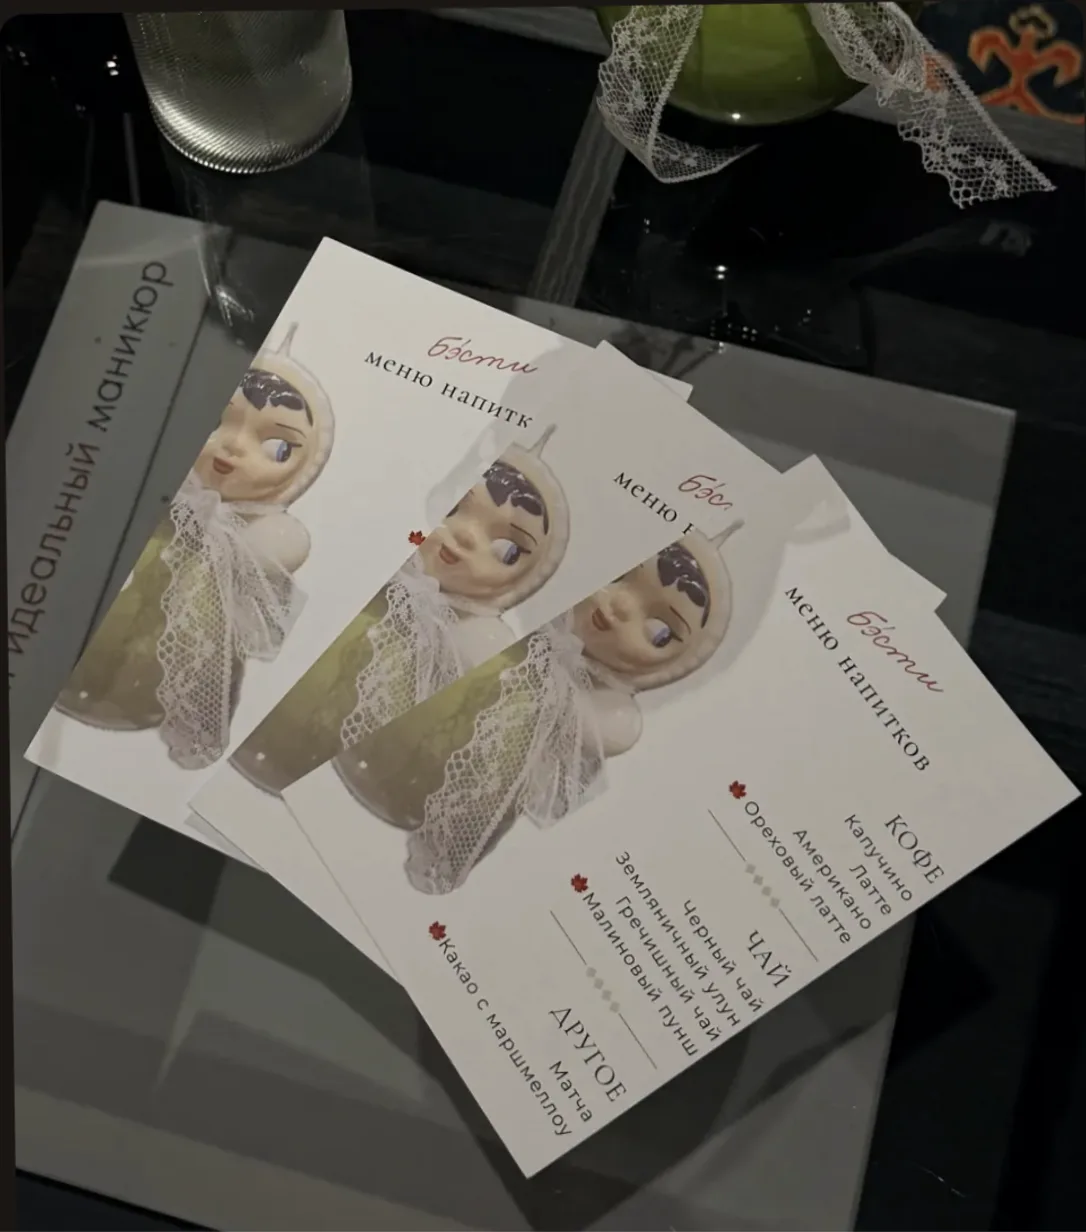
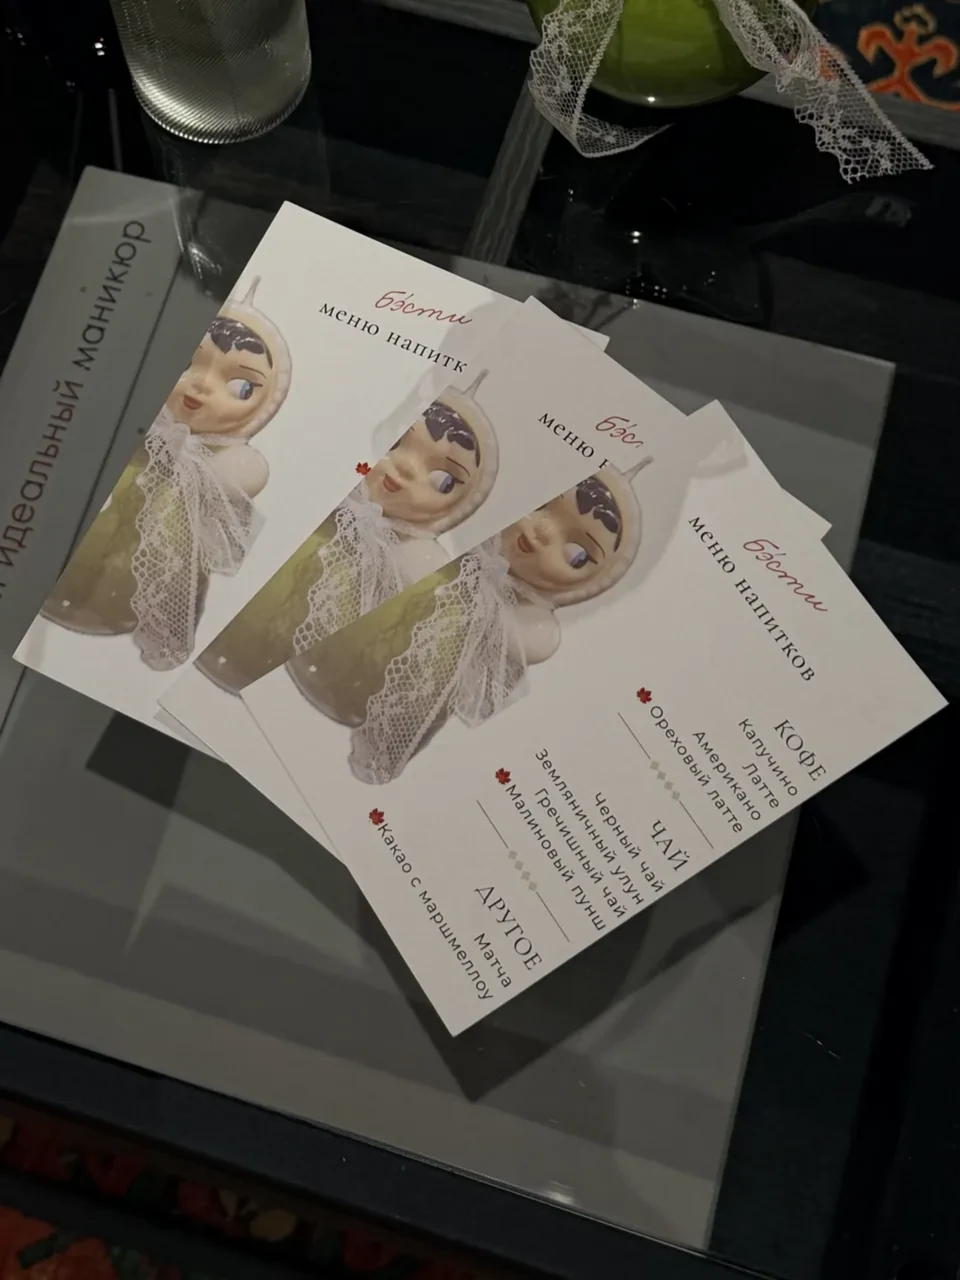
Почему бэсти: фото в кадрировке нового сайта; FAQ — 12 вопросов по карточке Яндекс Карт; подвал как на bestie-nails.ru

diff --git a/index.html b/index.html
@@ -764,7 +764,7 @@ a:focus-visible, button:focus-visible { outline: 2px solid #2B1A17; outline-offs
 .fq__a { display: grid; grid-template-rows: 0fr; transition: grid-template-rows .35s cubic-bezier(.2, .8, .2, 1); }
 .fq__it.is-open .fq__a { grid-template-rows: 1fr; }
 .fq__ai { overflow: hidden; padding-right: 44px; font-size: 15px; line-height: 1.55; color: #2B1A17; }
-.fq__ai p { margin: 0 0 6px; } .fq__ai p:last-child { margin-bottom: 16px; }
+.fq__ai p { margin: 0 0 6px; } .fq__ai p:last-child { margin-bottom: 16px; } .fq__ai a { color: #85231A; text-underline-offset: 3px; }
 .fq-o { position: absolute; z-index: 1; display: block; opacity: 0; will-change: transform, opacity; }
 .fq-o__b { display: block; animation: fqbob 5.5s ease-in-out infinite alternate; }
 @keyframes fqbob { from { transform: translateY(-7px) rotate(-2deg); } to { transform: translateY(7px) rotate(2deg); } }
@@ -773,7 +773,9 @@ a:focus-visible, button:focus-visible { outline: 2px solid #2B1A17; outline-offs
 @media (max-width: 1399px) { .fq__objs { display: none; } }
 @media (max-width: 900px) {
   .fq { height: calc(100svh + 700px); }
-  .fq__stage { height: 100svh; padding: 80px 12px 16px; }
+  .fq__stage { height: 100svh; padding: 84px 12px 16px; place-items: start center; }
+  .fq__in { padding-top: 22px !important; }
+  .fq__q { min-height: 48px; }
   .fq__in { padding: 28px 18px 22px; }
   .fq__h { font-size: 34px; }
   .fq__tabs { margin: 24px 0 14px; }
@@ -928,6 +930,7 @@ a:focus-visible, button:focus-visible { outline: 2px solid #2B1A17; outline-offs
 .pw-img { position: absolute; inset: 0; margin: 0; clip-path: inset(100% 0 0 0); will-change: clip-path; }
 .pw-img[data-i="0"] { clip-path: inset(0 0 0 0); }
 .pw-img img { display: block; width: 100%; height: 100%; object-fit: cover; }
+.pw-img[data-file="kino_v_kresle.jpg"] img { object-position: 12% 50%; } /* кадр с планшетом и наушниками целиком */
 .pw-scan { position: absolute; left: 0; right: 0; top: 0; height: 2px; background: #FFACE4; box-shadow: 0 0 12px #FFACE4; opacity: 0; pointer-events: none; }
 .pw-tag { position: absolute; left: 14px; top: 14px; padding: 4px 8px; background: #FFACE4; color: #85231A; font-family: 'PT Mono', monospace; font-size: 12px; letter-spacing: .06em; text-transform: uppercase; border: 1px solid #2B1A17; }
 .pw-plus { position: absolute; width: 14px; height: 14px; }
@@ -1633,8 +1636,9 @@ a:focus-visible, button:focus-visible { outline: 2px solid #2B1A17; outline-offs
 <div class="fq__in">
 <h2 id="fq-h" class="fq__h">Частые вопросы</h2>
 <p class="fq__sub">Всё, что важно знать до визита</p>
-<div class="fq__tabs" role="tablist" aria-label="Темы вопросов"><button type="button" class="fq__tab" role="tab" id="fq-tab-0" aria-controls="fq-p-0" aria-selected="true" data-t="0">Запись и визит</button><button type="button" class="fq__tab" role="tab" id="fq-tab-1" aria-controls="fq-p-1" aria-selected="false" data-t="1">Студия</button></div>
-<div class="fq__panel" id="fq-p-0" role="tabpanel" aria-labelledby="fq-tab-0"><div class="fq__it"><button type="button" class="fq__q" aria-expanded="false"><span>Сколько длится визит?</span><i aria-hidden="true">+</i></button><div class="fq__a"><div class="fq__ai"><p>Маникюр — 1–1,5 часа; педикюр — 1–2 часа. Время зависит от услуги; дополнительные процедуры выбираются отдельно</p></div></div></div><div class="fq__it"><button type="button" class="fq__q" aria-expanded="false"><span>Записалась не на ту услугу — что делать?</span><i aria-hidden="true">+</i></button><div class="fq__a"><div class="fq__ai"><p>Скажите администратору: поменяем на месте или подскажем заранее</p><p><span class="wait">[ждём: подтверждение]</span></p></div></div></div><div class="fq__it"><button type="button" class="fq__q" aria-expanded="false"><span>Как оплатить?</span><i aria-hidden="true">+</i></button><div class="fq__a"><div class="fq__ai"><p>Картой, наличными, по QR-коду или через СБП</p></div></div></div></div><div class="fq__panel" id="fq-p-1" role="tabpanel" aria-labelledby="fq-tab-1" hidden><div class="fq__it"><button type="button" class="fq__q" aria-expanded="false"><span>Можно прийти с собакой?</span><i aria-hidden="true">+</i></button><div class="fq__a"><div class="fq__ai"><p><span class="wait">[ждём: правила — в карточке «с собаками до 35 см» и «с кошками и собаками»; спросить отдельно]</span></p></div></div></div><div class="fq__it"><button type="button" class="fq__q" aria-expanded="false"><span>Есть ли парковка?</span><i aria-hidden="true">+</i></button><div class="fq__a"><div class="fq__ai"><p><span class="wait">[ждём: где — в карточке «парковка: да»]</span></p></div></div></div></div>
+<!-- вопросы и ответы (22.11): карточка Яндекс Карт (audits/yandex-maps-2026-10-23/card.md — особенности, оплата, акция), прайс и меню сайта, отзывы гостей -->
+<div class="fq__tabs" role="tablist" aria-label="Темы вопросов"><button type="button" class="fq__tab" role="tab" id="fq-tab-0" aria-controls="fq-p-0" aria-selected="true" data-t="0">Запись</button><button type="button" class="fq__tab" role="tab" id="fq-tab-1" aria-controls="fq-p-1" aria-selected="false" data-t="1">Оплата</button><button type="button" class="fq__tab" role="tab" id="fq-tab-2" aria-controls="fq-p-2" aria-selected="false" data-t="2">Студия</button></div>
+<div class="fq__panel" id="fq-p-0" role="tabpanel" aria-labelledby="fq-tab-0"><div class="fq__it"><button type="button" class="fq__q" aria-expanded="false"><span>Как записаться?</span><i aria-hidden="true">+</i></button><div class="fq__a"><div class="fq__ai"><p>Онлайн в YCLIENTS — свободное время и мастера видны сразу. Или по телефону <a href="tel:+79652300425">+7 (965) 230-04-25</a>.</p></div></div></div><div class="fq__it"><button type="button" class="fq__q" aria-expanded="false"><span>Сколько длится визит?</span><i aria-hidden="true">+</i></button><div class="fq__a"><div class="fq__ai"><p>Маникюр — от 1 часа до 1,5 часа, педикюр — от 1 до 2 часов. Точное время каждой услуги указано в прайсе.</p></div></div></div><div class="fq__it"><button type="button" class="fq__q" aria-expanded="false"><span>Делаете мужской маникюр и педикюр?</span><i aria-hidden="true">+</i></button><div class="fq__a"><div class="fq__ai"><p>Да: мужской маникюр, пилочный мужской маникюр и мужской педикюр — в разделе «Услуги и цены».</p></div></div></div><div class="fq__it"><button type="button" class="fq__q" aria-expanded="false"><span>Работаете каждый день?</span><i aria-hidden="true">+</i></button><div class="fq__a"><div class="fq__ai"><p>Да, ежедневно с 10:00 до 22:00.</p></div></div></div></div><div class="fq__panel" id="fq-p-1" role="tabpanel" aria-labelledby="fq-tab-1" hidden><div class="fq__it"><button type="button" class="fq__q" aria-expanded="false"><span>Как оплатить?</span><i aria-hidden="true">+</i></button><div class="fq__a"><div class="fq__ai"><p>Картой, наличными, по QR-коду или через СБП.</p></div></div></div><div class="fq__it"><button type="button" class="fq__q" aria-expanded="false"><span>Есть скидка на первый визит?</span><i aria-hidden="true">+</i></button><div class="fq__a"><div class="fq__ai"><p>Да: сэт-комплекс Luxio — снятие гель-лака, маникюр, выравнивание и покрытие — за 2 890 ₽ вместо 3 400 ₽.</p></div></div></div><div class="fq__it"><button type="button" class="fq__q" aria-expanded="false"><span>Есть подарочный сертификат?</span><i aria-hidden="true">+</i></button><div class="fq__a"><div class="fq__ai"><p>Да, на маникюр и педикюр. Купить можно через Telegram <a href="https://t.me/bestie_nail" target="_blank" rel="noopener">@bestie_nail</a>.</p></div></div></div></div><div class="fq__panel" id="fq-p-2" role="tabpanel" aria-labelledby="fq-tab-2" hidden><div class="fq__it"><button type="button" class="fq__q" aria-expanded="false"><span>Можно прийти с собакой?</span><i aria-hidden="true">+</i></button><div class="fq__a"><div class="fq__ai"><p>Да, мы dog friendly: можно с собаками до 35 см и с кошками.</p></div></div></div><div class="fq__it"><button type="button" class="fq__q" aria-expanded="false"><span>Чем угостите?</span><i aria-hidden="true">+</i></button><div class="fq__a"><div class="fq__ai"><p>Пока мастер работает — кофе на обычном или растительном молоке, гречишный чай, матча, какао на банановом молоке. Это комплимент от студии.</p></div></div></div><div class="fq__it"><button type="button" class="fq__q" aria-expanded="false"><span>Инструменты стерильные?</span><i aria-hidden="true">+</i></button><div class="fq__a"><div class="fq__ai"><p>Да, инструменты достают из стерильного пакета при вас.</p></div></div></div><div class="fq__it"><button type="button" class="fq__q" aria-expanded="false"><span>Есть парковка и Wi-Fi?</span><i aria-hidden="true">+</i></button><div class="fq__a"><div class="fq__ai"><p>Да, и парковка, и Wi-Fi есть.</p></div></div></div><div class="fq__it"><button type="button" class="fq__q" aria-expanded="false"><span>Можно на инвалидной коляске?</span><i aria-hidden="true">+</i></button><div class="fq__a"><div class="fq__ai"><p>К сожалению, вход и помещение пока не приспособлены для коляски.</p></div></div></div></div>
 </div>
 </div>
 </div>
@@ -1668,22 +1672,23 @@ a:focus-visible, button:focus-visible { outline: 2px solid #2B1A17; outline-offs
 <img loading="lazy" decoding="async" src="assets/besti-mark-pink.svg" alt="бэсти" style="height: 52px; width: auto; display: block;">
 <p style="margin: 18px 0 0; max-width: 270px; font-size: 15px; line-height: 1.5; color: rgba(255, 250, 246, .9);">Студия маникюра и педикюра в 340 метрах от „Трубной“. Каждый день 10:00–22:00</p>
 </div>
+<!-- подвал (22.11): данные — как на bestie-nails.ru -->
 <div style="grid-column: 4 / span 3; display: flex; flex-direction: column; gap: 8px; font-size: 15px;">
-<p style="margin: 0 0 4px; font-family: 'PT Mono', monospace; font-size: 12px; letter-spacing: .06em; text-transform: uppercase; color: #FFACE4;">Контакты</p>
-<span>Бэсти Нейлс — студия маникюра</span>
-<a class="tap" href="tel:+79652300425" style="color: #FFFAF6; text-decoration: none;">+7 (965) 230-04-25</a>
-<a class="tap" href="https://t.me/bestie_nail" target="_blank" rel="noopener" style="color: #FFFAF6;">Telegram @bestie_nail</a>
-<span>Instagram* — <span class="wait wait-d">[ждём: ссылка на аккаунт]</span></span>
+<p style="margin: 0 0 4px; font-family: 'PT Mono', monospace; font-size: 12px; letter-spacing: .06em; text-transform: uppercase; color: #FFACE4;">Подписывайтесь на бэсти</p>
+<span style="color: rgba(255, 250, 246, .9);">Показываем работы мастеров и жизнь студии.</span>
+<a class="tap" href="https://t.me/bestie_nail" target="_blank" rel="noopener" style="color: #FFFAF6; text-underline-offset: 3px;">Telegram</a>
+<a class="tap" href="https://www.instagram.com/bestie.naails/" target="_blank" rel="noopener" style="color: #FFFAF6; text-underline-offset: 3px;">Instagram*</a>
+<a class="tap" href="https://n2379744.yclients.com/" target="_blank" rel="noopener" style="color: #FFFAF6; text-underline-offset: 3px;">Онлайн-запись</a>
 </div>
 <div style="grid-column: 7 / span 3; display: flex; flex-direction: column; gap: 8px; font-size: 15px;">
-<p style="margin: 0 0 4px; font-family: 'PT Mono', monospace; font-size: 12px; letter-spacing: .06em; text-transform: uppercase; color: #FFACE4;">Адрес и часы</p>
-<span>Москва, Печатников пер., 6</span>
-<span>Ежедневно 10:00–22:00</span>
+<p style="margin: 0 0 4px; font-family: 'PT Mono', monospace; font-size: 12px; letter-spacing: .06em; text-transform: uppercase; color: #FFACE4;">Как дойти</p>
+<a class="tap" href="tel:+79652300425" style="color: #FFFAF6; text-decoration: none;">+7 (965) 230-04-25</a>
+<span>Печатников пер., 6</span>
+<span>Каждый день 10:00–22:00</span>
 </div>
 <div style="grid-column: 10 / span 3; display: flex; flex-direction: column; gap: 10px; font-size: 15px;">
-<p style="margin: 0 0 4px; font-family: 'PT Mono', monospace; font-size: 12px; letter-spacing: .06em; text-transform: uppercase; color: #FFACE4;">Реквизиты и документы</p>
-<span>ИП Абдулагаева Зухра Загитдиновна</span>
-<span><span class="wait wait-d">[ждём: ИНН и ОГРНИП]</span></span>
+<p style="margin: 0 0 4px; font-family: 'PT Mono', monospace; font-size: 12px; letter-spacing: .06em; text-transform: uppercase; color: #FFACE4;">Бэсти</p>
+<span>© 2026 бэсти · ИП Абдулагаева Зухра Загитдиновна</span>
 <a class="tap" href="privacy.html" style="color: #FFFAF6; text-underline-offset: 3px;">Политика обработки персональных данных</a>
 <span style="margin-top: 2px; font-size: 12px; line-height: 1.4; color: rgba(255, 250, 246, .78);">*Instagram принадлежит компании Meta, признанной экстремистской и запрещённой на территории РФ</span>
 </div>
